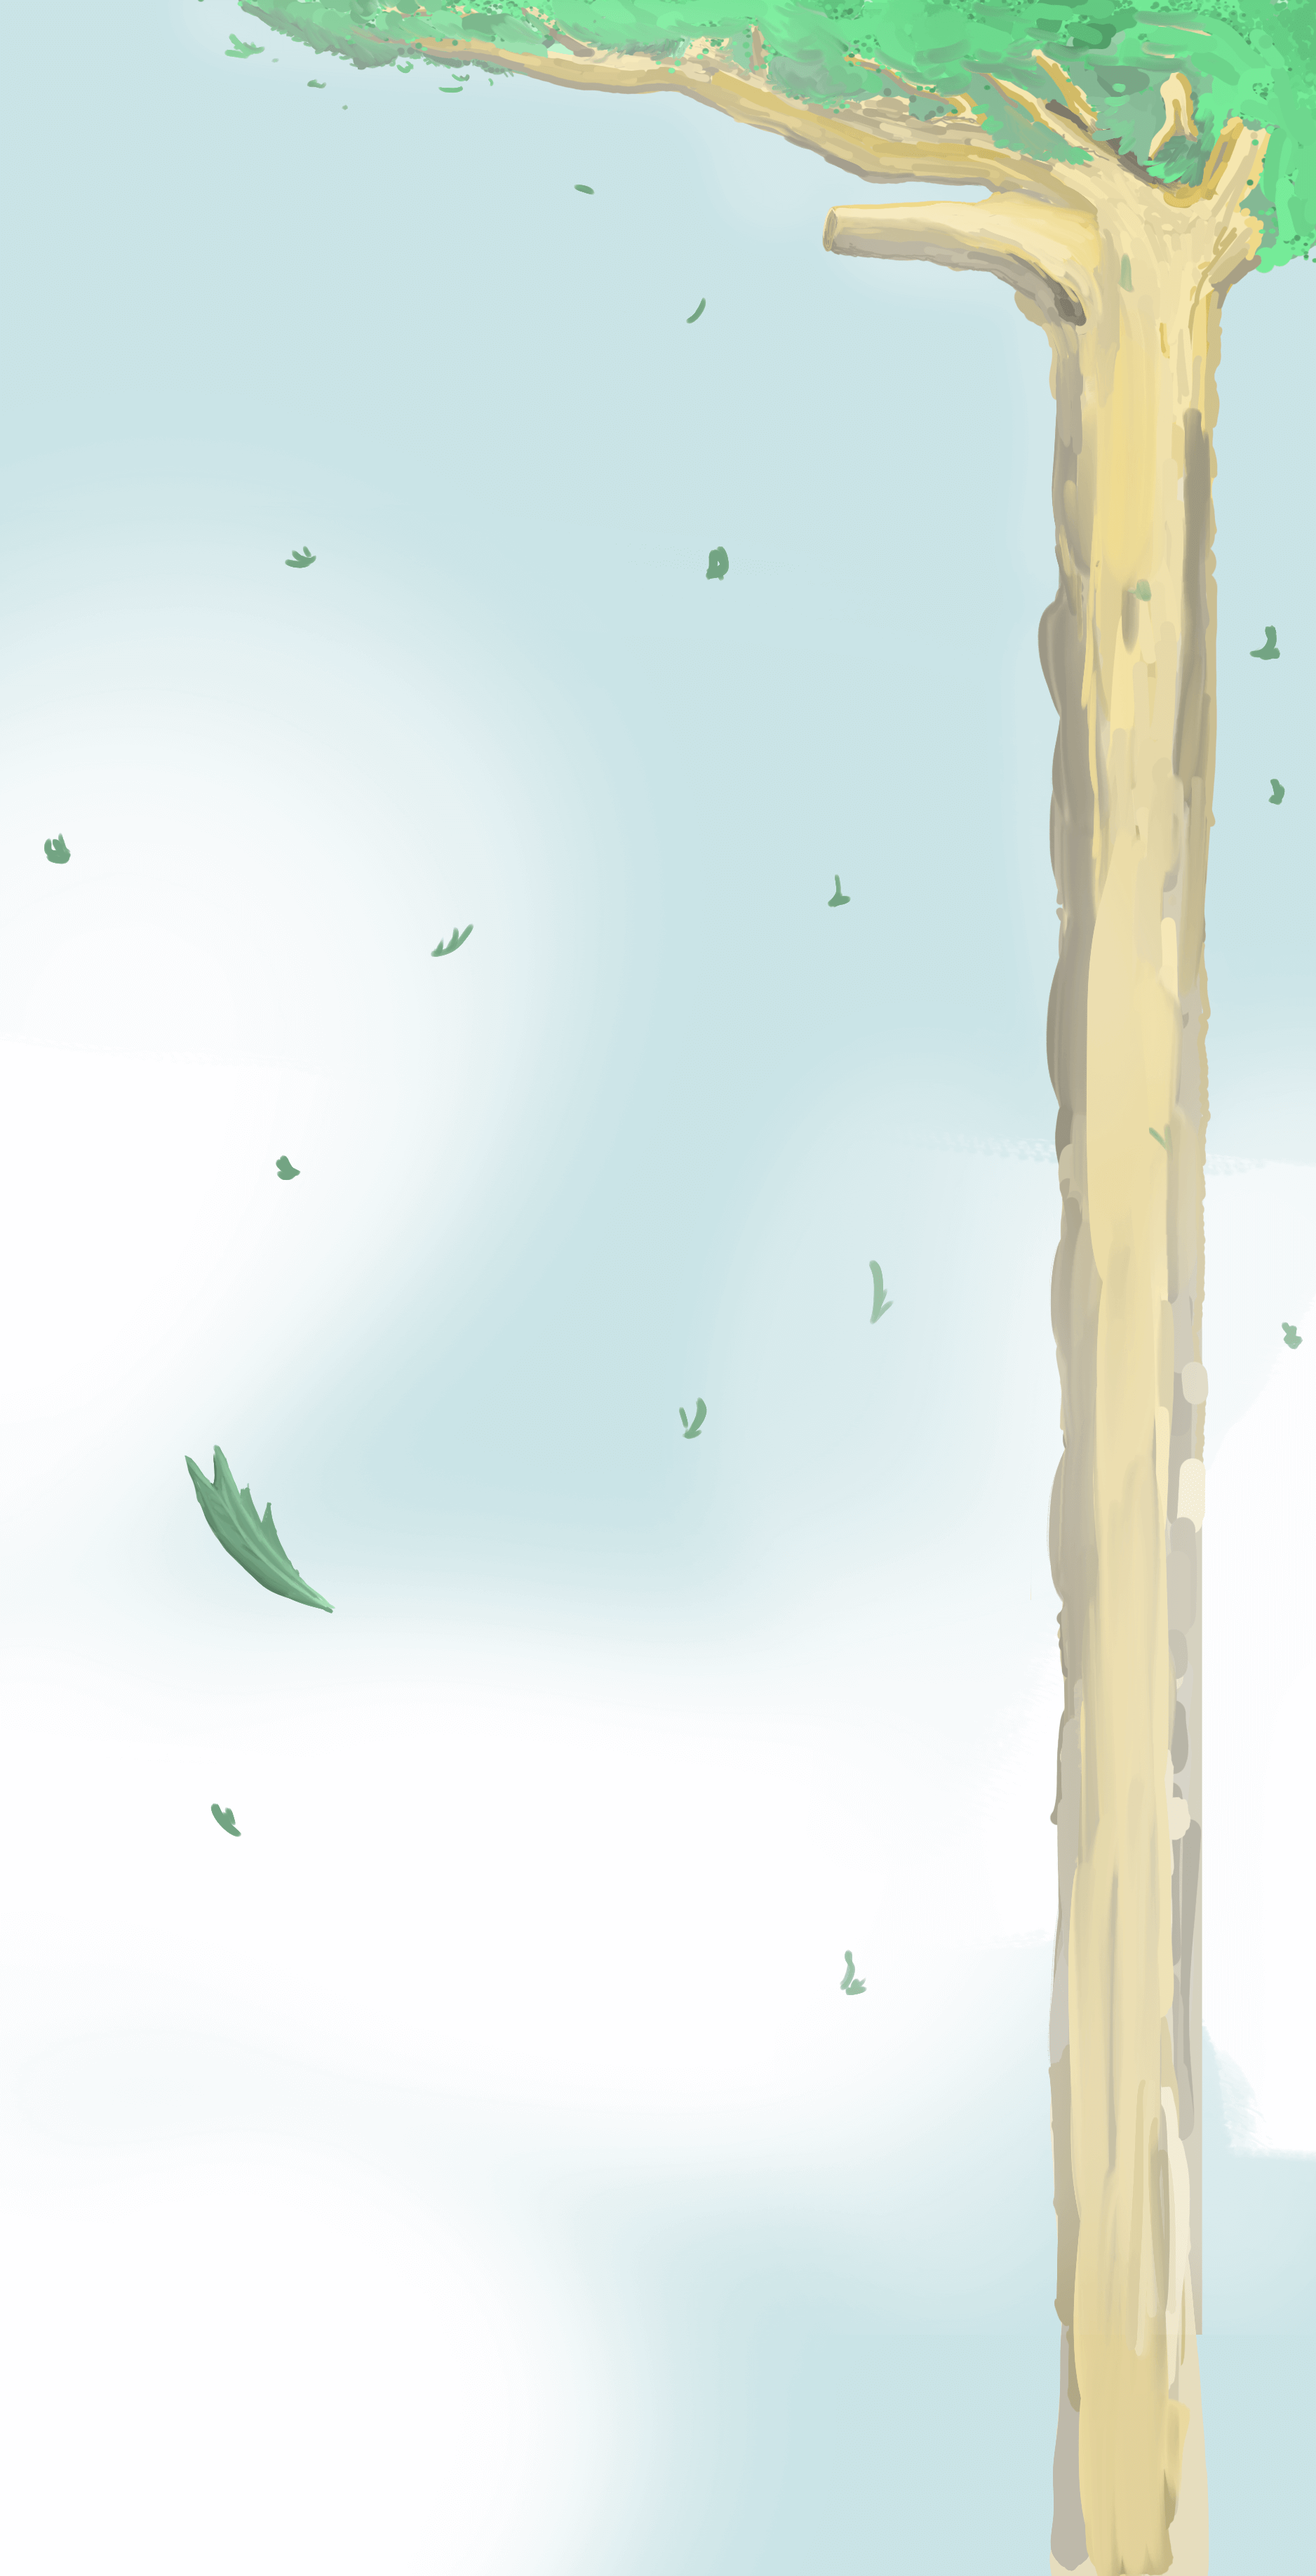
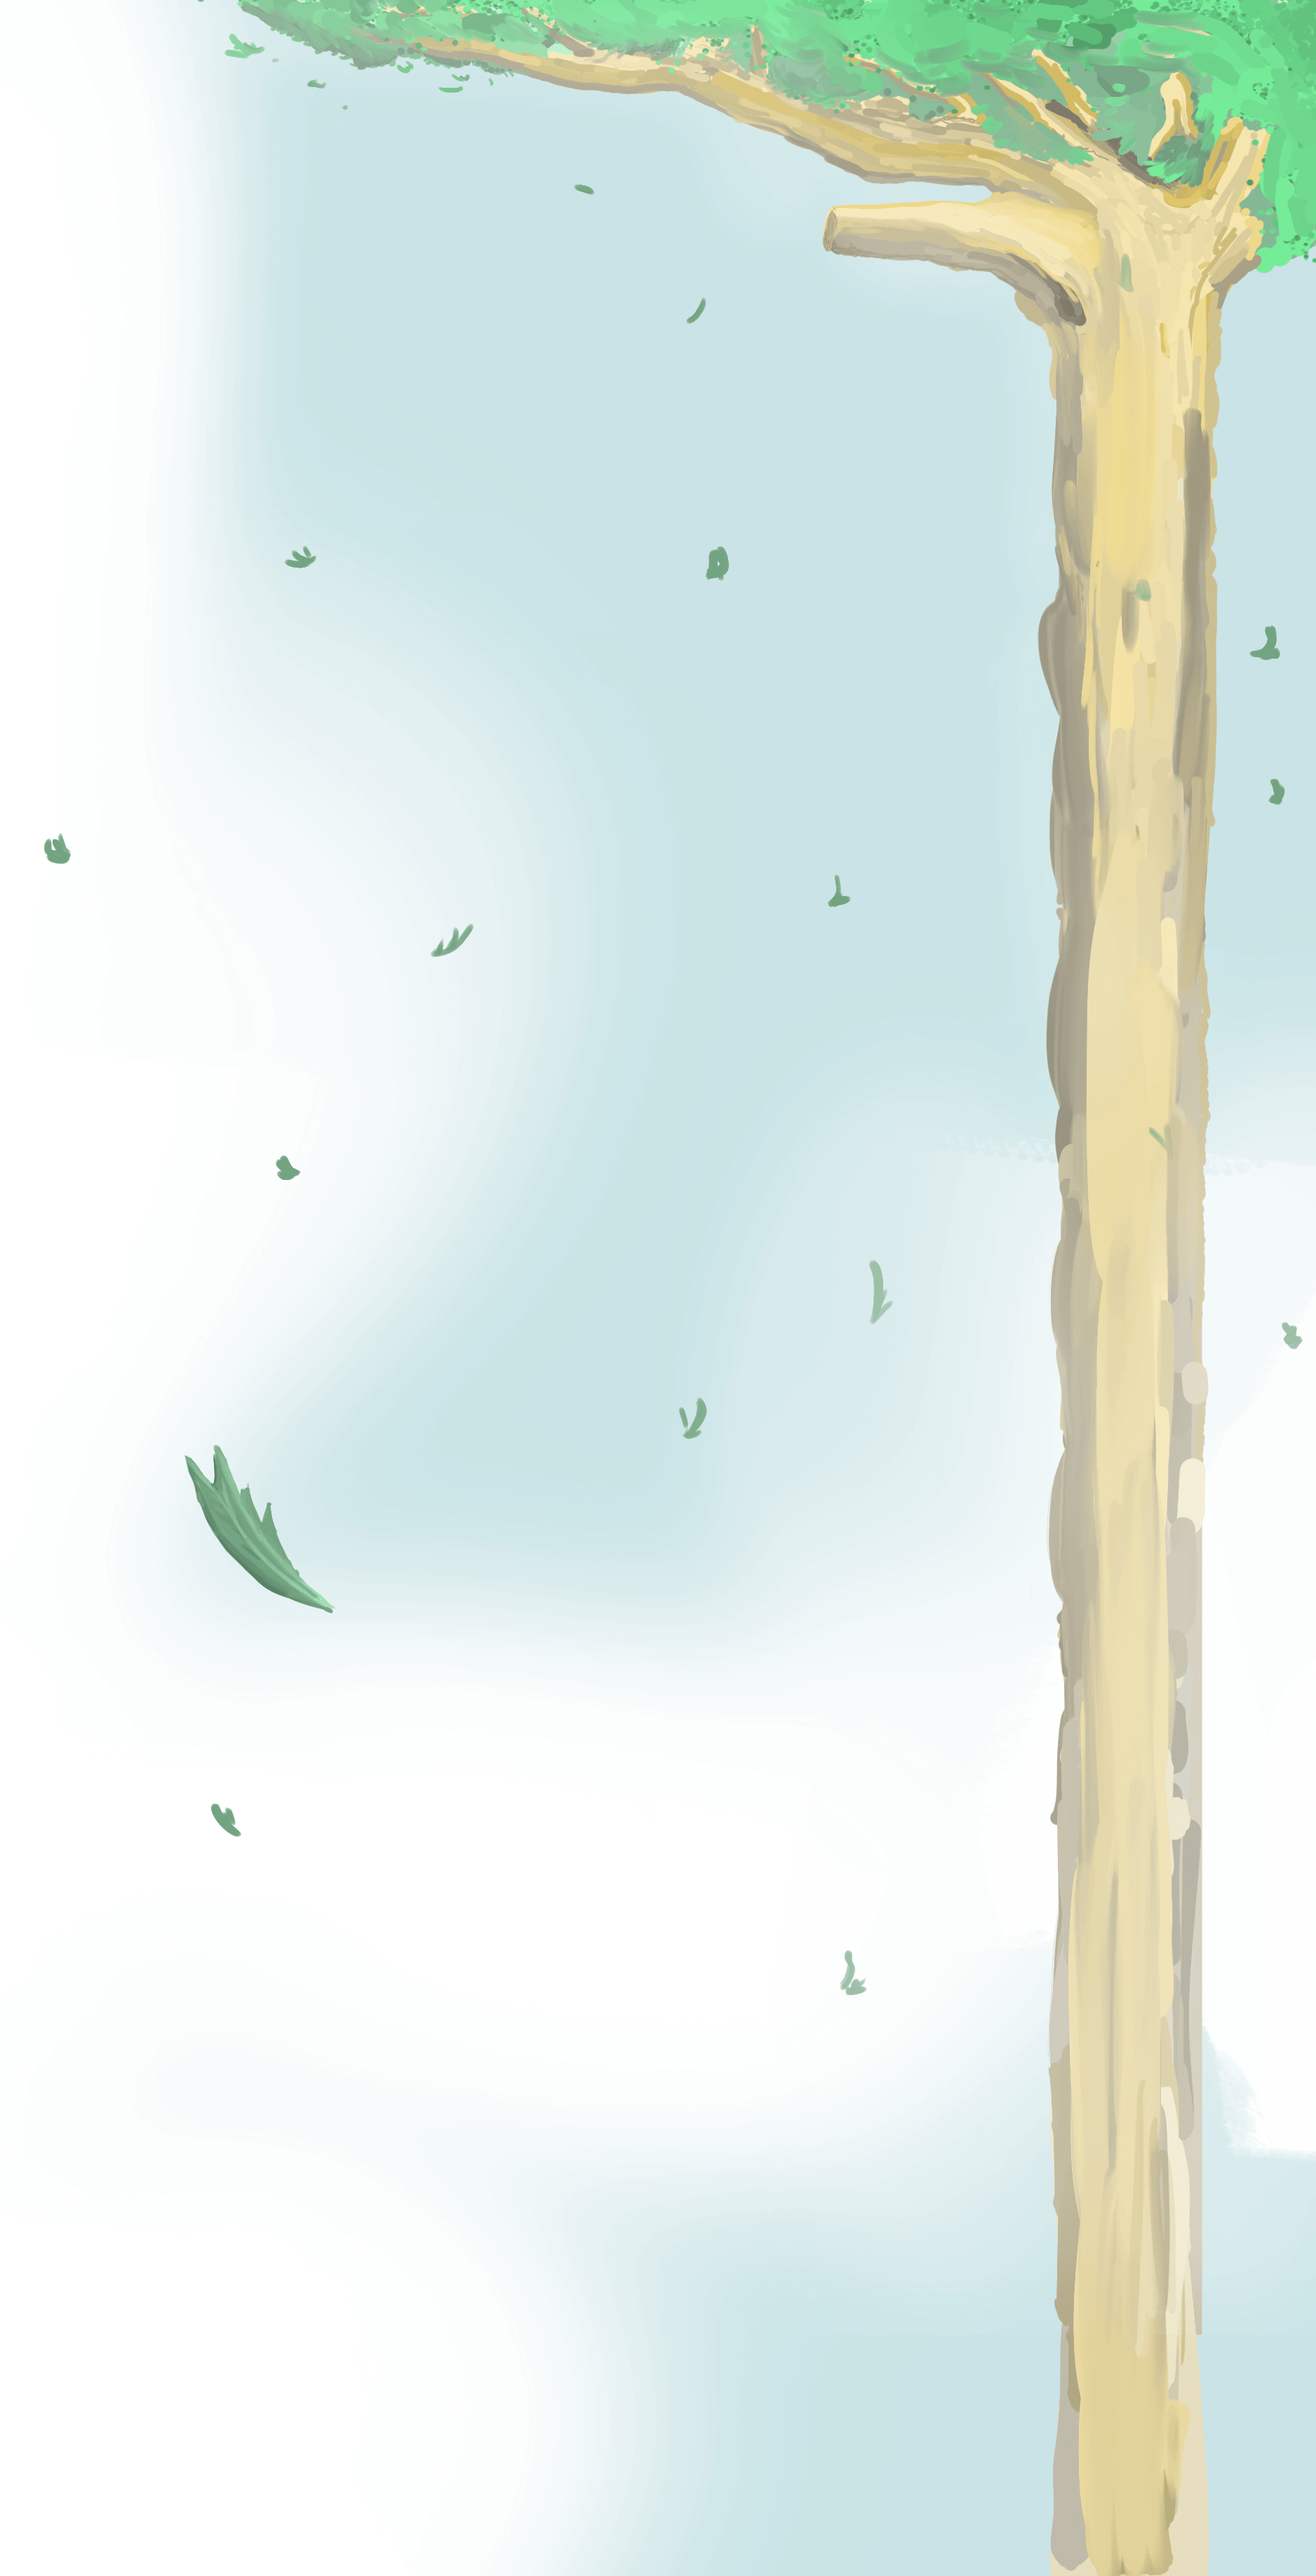
fixed background color

Changed region(s): [[0.0, 0.0, 0.1855, 0.2794]]

diff --git a/style.css b/style.css
@@ -48,8 +48,9 @@ header {
 }
 
 section {
+  margin: 0 auto 0 auto;
   min-height: 200px;
-  padding: 6% 0;
+  padding: 3% 0;
 }
 
 li {
@@ -111,7 +112,7 @@ a:link {
 .tinker-item {
   background-color: white;
   width: 300px;
-  margin: 5%;
+  margin: .5%;
   border: 1px solid black;
 }
 
